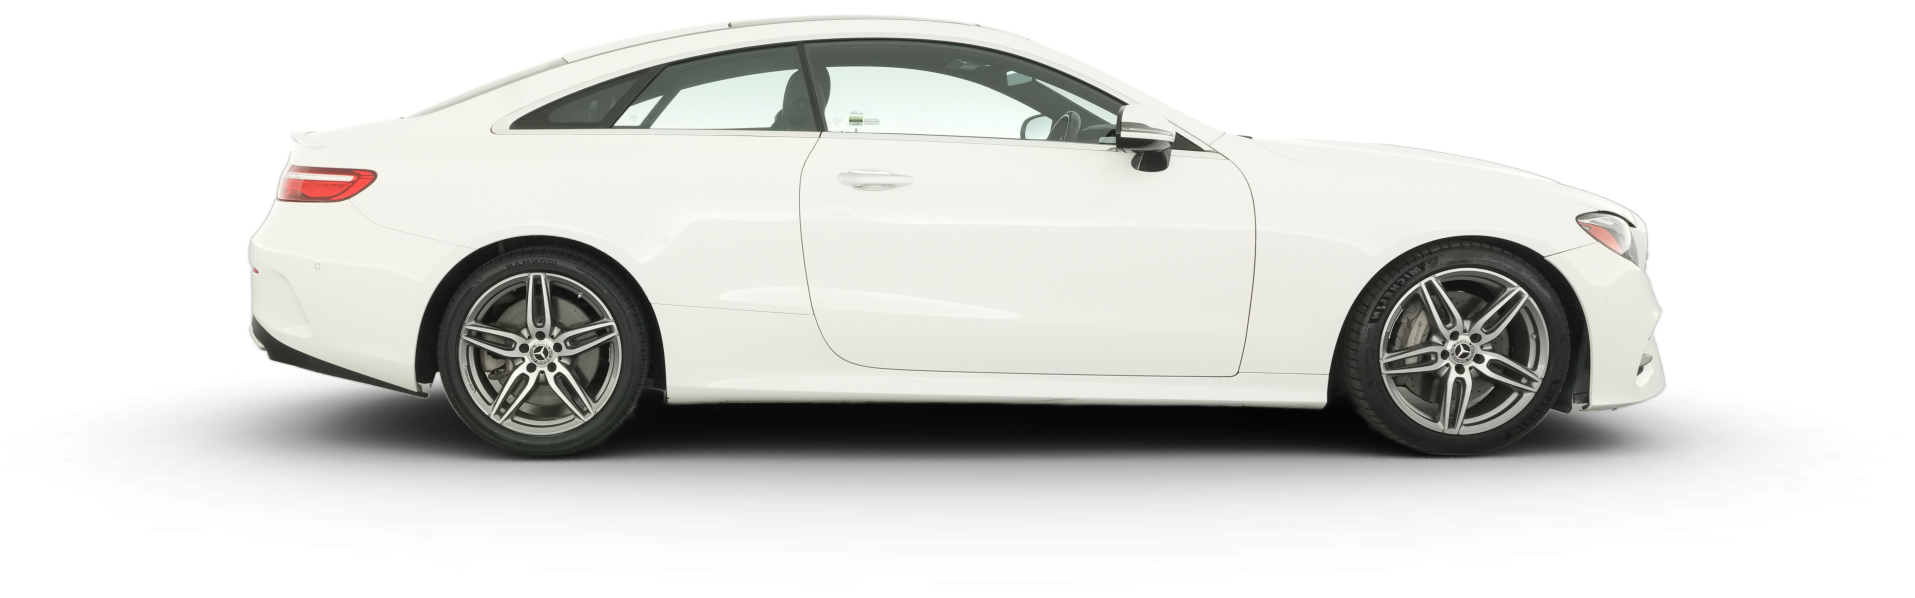
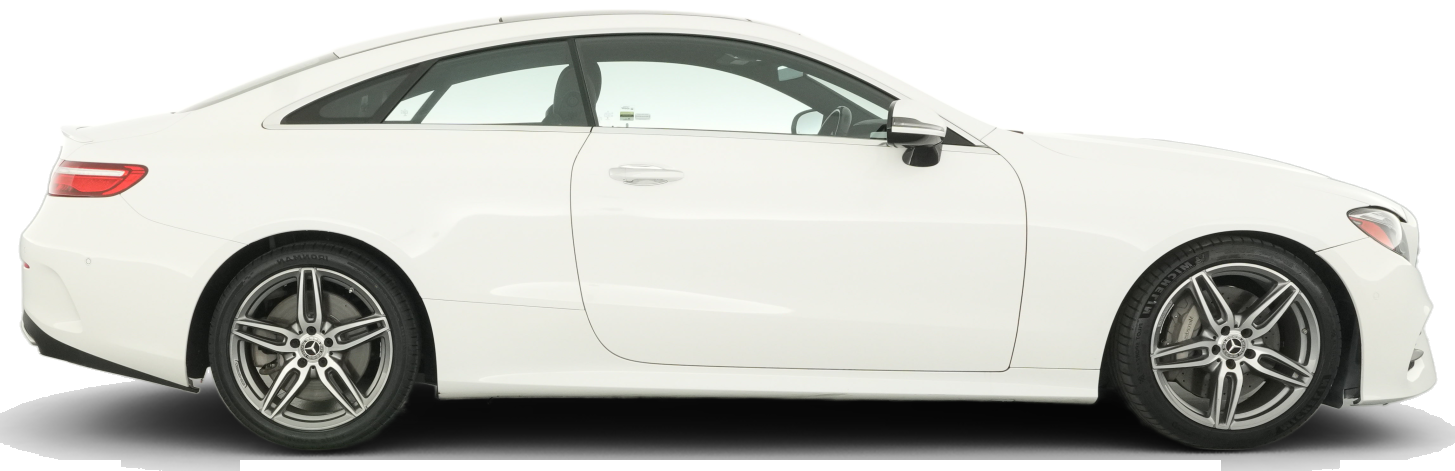
fix(garage): deliver authentic transparent photo color variations for 2018 E400 Coupe

diff --git a/frontend/src/features/my/VehicleThumbnail.tsx b/frontend/src/features/my/VehicleThumbnail.tsx
@@ -7,7 +7,6 @@ import {
   type VehicleArchetype,
   type VehicleSilhouette,
 } from '../../lib/vehicleStyle'
-import { E_CLASS_COUPE_PATHS } from './vehiclePaths'
 import { useI18n } from '../../i18n'
 
 interface VehicleThumbnailProps {
@@ -88,17 +87,10 @@ export function VehicleThumbnail({
   }, [baseColor])
 
   const resolvedPhoto = useMemo(() => {
-    return resolveVehiclePhoto(label, imageUrl)
-  }, [label, imageUrl])
+    return resolveVehiclePhoto(label, imageUrl, color)
+  }, [label, imageUrl, color])
 
-  const isCustomRecolored = Boolean(
-    color &&
-      color.toLowerCase() !== '#ffffff' &&
-      color.toLowerCase() !== '#f8fafc' &&
-      color.toLowerCase() !== '#fff'
-  )
-  const isUserCustomUpload = Boolean(imageUrl && imageUrl.trim().length > 0 && !imageUrl.startsWith('/vehicles/'))
-  const showPhoto = Boolean(isUserCustomUpload && !isCustomRecolored && !imgError && !preferVector)
+  const showPhoto = Boolean(resolvedPhoto && !imgError && !preferVector)
 
   const dimensions = {
     sm: 'w-20 h-10',
@@ -160,7 +152,7 @@ export function VehicleThumbnail({
             <ellipse cx="100" cy="67" rx="80" ry="4" fill="currentColor" className="text-ink/15 dark:text-ink/30" />
 
             {/* Real Body Panels & Silhouette */}
-            {renderVehicleSilhouette(silhouette, `url(#car-paint-${uid})`, `url(#car-glass-${uid})`, isLightCar, uid)}
+            {renderVehicleSilhouette(silhouette, `url(#car-paint-${uid})`, `url(#car-glass-${uid})`, isLightCar)}
 
             {/* Precision Wheels */}
             {renderWheels(silhouette)}
@@ -188,7 +180,6 @@ function renderVehicleSilhouette(
   paintUrl: string,
   glassUrl: string,
   isLightCar: boolean,
-  uid: string,
 ) {
   const lineStroke = isLightCar ? '#475569' : '#0f172a'
 
@@ -196,64 +187,32 @@ function renderVehicleSilhouette(
     case 'e_class_coupe':
       return (
         <g>
-          {/* Mercedes E-Class Coupe (C238) - Traced directly from authentic vehicle photography */}
-          <g transform="translate(12, 69.03) scale(0.012265, -0.012265)">
-            {/* 1. Real Car Body Sheet Metal & Automotive Paint */}
-            <path
-              d={E_CLASS_COUPE_PATHS.body}
-              fill={paintUrl}
-              stroke={lineStroke}
-              strokeWidth="24"
-            />
-            {/* 2. Authentic Frameless Pillarless Coupe Greenhouse Windows */}
-            <path d={E_CLASS_COUPE_PATHS.glass} fill={glassUrl} />
-            {/* 3. Multibeam LED Crystalline Headlight Unit */}
-            <path d={E_CLASS_COUPE_PATHS.headlight} fill="#38bdf8" />
-            {/* 4. Stardust Red LED Taillight Strip */}
-            <path d={E_CLASS_COUPE_PATHS.taillight} fill="#ef4444" />
-          </g>
-
-          {/* Precision AMG 5-Twin-Spoke Alloy Wheels in 200x80 coordinate space */}
-          {/* Rear Wheel (cx=34.1, cy=53.5, r=13.2) */}
-          <g id={`rear-wheel-${uid}`}>
-            <circle cx="34.1" cy="53.5" r="13.2" fill="#090d16" stroke="#1e293b" strokeWidth="1.5" />
-            <circle cx="34.1" cy="53.5" r="10" fill="#020617" />
-            <circle cx="34.1" cy="53.5" r="8" fill="#475569" stroke="#334155" strokeWidth="0.5" />
-            <rect x="26" y="49.5" width="2.2" height="5.5" rx="0.5" fill="#94a3b8" />
-            <circle cx="34.1" cy="53.5" r="10" fill="none" stroke={`url(#car-chrome-${uid})`} strokeWidth="1" />
-            <g stroke={`url(#car-chrome-${uid})`} strokeWidth="0.8" strokeLinecap="round">
-              <line x1="34.1" y1="53.5" x2="34.1" y2="43.8" />
-              <line x1="34.1" y1="53.5" x2="43.3" y2="50.5" />
-              <line x1="34.1" y1="53.5" x2="39.8" y2="61.2" />
-              <line x1="34.1" y1="53.5" x2="28.4" y2="61.2" />
-              <line x1="34.1" y1="53.5" x2="24.9" y2="50.5" />
-            </g>
-            <circle cx="34.1" cy="53.5" r="2.4" fill="#090d16" stroke="#cbd5e1" strokeWidth="0.5" />
-            <circle cx="34.1" cy="53.5" r="1.2" fill="#f8fafc" />
-          </g>
-
-          {/* Front Wheel (cx=169.6, cy=54.5, r=13.2) */}
-          <g id={`front-wheel-${uid}`}>
-            <circle cx="169.6" cy="54.5" r="13.2" fill="#090d16" stroke="#1e293b" strokeWidth="1.5" />
-            <circle cx="169.6" cy="54.5" r="10" fill="#020617" />
-            <circle cx="169.6" cy="54.5" r="8" fill="#475569" stroke="#334155" strokeWidth="0.5" />
-            <rect x="161.5" y="50.5" width="2.2" height="5.5" rx="0.5" fill="#94a3b8" />
-            <circle cx="169.6" cy="54.5" r="10" fill="none" stroke={`url(#car-chrome-${uid})`} strokeWidth="1" />
-            <g stroke={`url(#car-chrome-${uid})`} strokeWidth="0.8" strokeLinecap="round">
-              <line x1="169.6" y1="54.5" x2="169.6" y2="44.8" />
-              <line x1="169.6" y1="54.5" x2="178.8" y2="51.5" />
-              <line x1="169.6" y1="54.5" x2="175.3" y2="62.2" />
-              <line x1="169.6" y1="54.5" x2="163.9" y2="62.2" />
-              <line x1="169.6" y1="54.5" x2="160.4" y2="51.5" />
-            </g>
-            <circle cx="169.6" cy="54.5" r="2.4" fill="#090d16" stroke="#cbd5e1" strokeWidth="0.5" />
-            <circle cx="169.6" cy="54.5" r="1.2" fill="#f8fafc" />
-          </g>
-
-          {/* Mercedes Dropping Beltline & Pillarless Door Seam */}
-          <path d="M 36 41 C 73 40 116 39 165 42" stroke={lineStroke} strokeWidth="0.6" strokeOpacity="0.4" fill="none" />
-          <path d="M 103 26 L 99 41 L 100 58" stroke={lineStroke} strokeWidth="0.5" strokeOpacity="0.4" fill="none" />
-          <line x1="67" y1="62" x2="141" y2="62" stroke={lineStroke} strokeWidth="0.8" strokeOpacity="0.5" strokeLinecap="round" />
+          {/* Mercedes E-Class Coupe (C238) - Sleek Pillarless Fastback Arch */}
+          <path
+            d="M 18 54 C 16 50 18 44 26 42 C 34 41 42 41 50 39 C 68 31 88 23 112 23 C 128 23 138 29 146 39 L 178 44 C 185 45 188 49 186 54 L 168 54 A 14 14 0 0 0 140 54 L 62 54 A 14 14 0 0 0 34 54 L 18 54 Z"
+            fill={paintUrl}
+            stroke={lineStroke}
+            strokeWidth="0.75"
+          />
+          {/* Panoramic Glass Roof */}
+          <path d="M 85 23 C 98 22 116 22 128 24 L 126 36 L 82 36 Z" fill="#090d16" fillOpacity="0.85" />
+          {/* Frameless Continuous Greenhouse Glass */}
+          <path
+            d="M 54 39 C 72 30 92 24 116 24 C 128 24 138 30 144 39 L 54 39 Z"
+            fill={glassUrl}
+            stroke={lineStroke}
+            strokeWidth="0.75"
+          />
+          {/* Pillarless Divider Line */}
+          <line x1="98" y1="24" x2="98" y2="39" stroke={lineStroke} strokeWidth="0.75" strokeOpacity="0.5" />
+          {/* Mercedes Dropping Beltline */}
+          <path d="M 28 43 C 70 42 120 42 176 45" stroke={lineStroke} strokeWidth="0.6" strokeOpacity="0.3" fill="none" />
+          {/* Sport Rocker Panel Sill Accent */}
+          <line x1="64" y1="52" x2="138" y2="52" stroke={lineStroke} strokeWidth="1.2" strokeLinecap="round" />
+          {/* Multibeam Headlight */}
+          <path d="M 178 45 L 185 47 L 182 50 Z" fill="#38bdf8" />
+          {/* Stardust OLED Taillight Strip */}
+          <line x1="17" y1="43" x2="26" y2="43" stroke="#ef4444" strokeWidth="2" strokeLinecap="round" />
         </g>
       )
 
@@ -556,9 +515,6 @@ function renderVehicleSilhouette(
 }
 
 function renderWheels(silhouette: VehicleSilhouette) {
-  if (silhouette === 'e_class_coupe') {
-    return null
-  }
   const rearX = 48
   const frontX = 154
   const cy = 54

diff --git a/frontend/src/lib/vehicleStyle.ts b/frontend/src/lib/vehicleStyle.ts
@@ -169,10 +169,80 @@ export function inferVehicleArchetype(text?: string | null): VehicleArchetype {
   return SILHOUETTE_TO_ARCHETYPE[silhouette]
 }
 
+function parseHexRgb(hex: string): [number, number, number] | null {
+  const clean = hex.replace('#', '').trim()
+  if (clean.length === 3) {
+    return [
+      parseInt(clean[0] + clean[0], 16),
+      parseInt(clean[1] + clean[1], 16),
+      parseInt(clean[2] + clean[2], 16),
+    ]
+  }
+  if (clean.length === 6) {
+    return [
+      parseInt(clean.slice(0, 2), 16),
+      parseInt(clean.slice(2, 4), 16),
+      parseInt(clean.slice(4, 6), 16),
+    ]
+  }
+  return null
+}
+
+/**
+ * Resolves color-accurate, transparent cut-out photograph for the 2018 Mercedes-Benz E400 Coupe.
+ */
+export function resolveE400ColorPhoto(color?: string | null): string {
+  if (!color || color === '#ffffff' || color === '#fff' || color === '#f8fafc') {
+    return '/vehicles/2018_mercedes_benz_e400_coupe_white.png'
+  }
+  const norm = color.toLowerCase().trim()
+
+  const PRESET_FILES: Record<string, string> = {
+    '#1e293b': 'obsidian',
+    '#f8fafc': 'white',
+    '#ffffff': 'white',
+    '#64748b': 'grey',
+    '#94a3b8': 'silver',
+    '#1d4ed8': 'blue',
+    '#dc2626': 'red',
+    '#15803d': 'green',
+    '#d97706': 'gold',
+    '#ea580c': 'orange',
+    '#7e22ce': 'purple',
+  }
+
+  if (PRESET_FILES[norm]) {
+    return `/vehicles/2018_mercedes_benz_e400_coupe_${PRESET_FILES[norm]}.png`
+  }
+
+  // Find closest preset match for custom color picker input
+  const rgb = parseHexRgb(norm)
+  if (!rgb) {
+    return '/vehicles/2018_mercedes_benz_e400_coupe_white.png'
+  }
+
+  let bestPreset = 'obsidian'
+  let minDistance = Infinity
+  for (const preset of VEHICLE_COLOR_PRESETS) {
+    const pRgb = parseHexRgb(preset.hex)
+    if (!pRgb) continue
+    const dist = (rgb[0] - pRgb[0]) ** 2 + (rgb[1] - pRgb[1]) ** 2 + (rgb[2] - pRgb[2]) ** 2
+    if (dist < minDistance) {
+      minDistance = dist
+      bestPreset = preset.id
+    }
+  }
+  return `/vehicles/2018_mercedes_benz_e400_coupe_${bestPreset}.png`
+}
+
 /**
  * Resolves an authentic vehicle photo URL if available or set.
  */
-export function resolveVehiclePhoto(label?: string | null, customImageUrl?: string | null): string | null {
+export function resolveVehiclePhoto(
+  label?: string | null,
+  customImageUrl?: string | null,
+  color?: string | null,
+): string | null {
   if (customImageUrl && customImageUrl.trim().length > 0) {
     const raw = customImageUrl.trim()
     // Support direct Carvana vehicle listing URLs
@@ -180,7 +250,7 @@ export function resolveVehiclePhoto(label?: string | null, customImageUrl?: stri
     if (carvanaMatch) {
       const vehicleId = carvanaMatch[1]
       if (vehicleId === '4856325') {
-        return '/vehicles/2018_mercedes_benz_e400_coupe_transparent.png'
+        return resolveE400ColorPhoto(color)
       }
     }
     return raw
@@ -190,18 +260,7 @@ export function resolveVehiclePhoto(label?: string | null, customImageUrl?: stri
   if (
     (/\b(e\s?400|e\s?450|e\s?350)\b.*\bcoupe\b/i.test(s) || (/\b(mercedes|benz)\b/i.test(s) && /\bcoupe\b/i.test(s)))
   ) {
-    return '/vehicles/2018_mercedes_benz_e400_coupe_transparent.png'
-  }
-  return null
-}
-
-/**
- * Resolves a transparent paint mask if the vehicle photo supports dynamic recoloring.
- */
-export function resolveVehiclePaintMask(photoUrl?: string | null): string | null {
-  if (!photoUrl) return null
-  if (photoUrl.includes('2018_mercedes_benz_e400_coupe') || photoUrl.includes('4856325')) {
-    return '/vehicles/2018_mercedes_benz_e400_coupe_paint_mask.png'
+    return resolveE400ColorPhoto(color)
   }
   return null
 }

diff --git a/frontend/src/lib/vehicleStyle.test.ts b/frontend/src/lib/vehicleStyle.test.ts
@@ -3,7 +3,6 @@ import {
   inferVehicleArchetype,
   inferVehicleSilhouette,
   resolveVehiclePhoto,
-  resolveVehiclePaintMask,
   VEHICLE_COLOR_PRESETS,
 } from './vehicleStyle'
 
@@ -76,11 +75,13 @@ describe('inferVehicleSilhouette & inferVehicleArchetype', () => {
     // Custom URL priority
     expect(resolveVehiclePhoto('2018 Mercedes-Benz E400 Coupe', 'https://example.com/mycar.jpg')).toBe('https://example.com/mycar.jpg')
     // Carvana listing URL translation
-    expect(resolveVehiclePhoto('Any Car', 'https://www.carvana.com/vehicle/4856325?store=Carvla3')).toBe('/vehicles/2018_mercedes_benz_e400_coupe_transparent.png')
-    // Default mapped photo for Mercedes E-Class Coupe
-    expect(resolveVehiclePhoto('2018 Mercedes-Benz E400 Coupe')).toBe('/vehicles/2018_mercedes_benz_e400_coupe_transparent.png')
-    // Paint mask resolution
-    expect(resolveVehiclePaintMask('/vehicles/2018_mercedes_benz_e400_coupe_transparent.png')).toBe('/vehicles/2018_mercedes_benz_e400_coupe_paint_mask.png')
+    expect(resolveVehiclePhoto('Any Car', 'https://www.carvana.com/vehicle/4856325?store=Carvla3')).toBe('/vehicles/2018_mercedes_benz_e400_coupe_white.png')
+    // Default mapped photo for Mercedes E-Class Coupe (white / factory)
+    expect(resolveVehiclePhoto('2018 Mercedes-Benz E400 Coupe')).toBe('/vehicles/2018_mercedes_benz_e400_coupe_white.png')
+    // Custom color mapped photo for Mercedes E-Class Coupe
+    expect(resolveVehiclePhoto('2018 Mercedes-Benz E400 Coupe', null, '#1e293b')).toBe('/vehicles/2018_mercedes_benz_e400_coupe_obsidian.png')
+    expect(resolveVehiclePhoto('2018 Mercedes-Benz E400 Coupe', null, '#dc2626')).toBe('/vehicles/2018_mercedes_benz_e400_coupe_red.png')
+    expect(resolveVehiclePhoto('2018 Mercedes-Benz E400 Coupe', null, '#1d4ed8')).toBe('/vehicles/2018_mercedes_benz_e400_coupe_blue.png')
     // Unmapped vehicle returns null
     expect(resolveVehiclePhoto('2019 Honda Civic EX')).toBe(null)
   })
